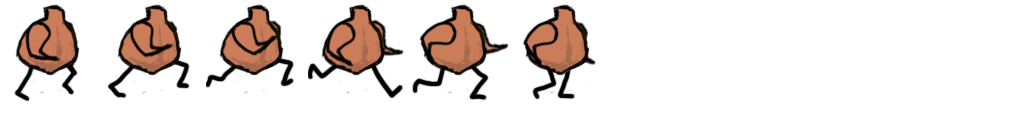
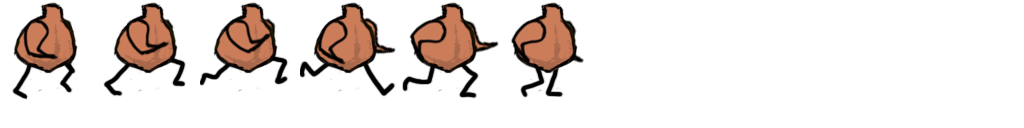
CHICKEN DOING THINGS

Changed region(s): [[0.0, 0.0, 0.5938, 0.7812]]

diff --git a/player.py b/player.py
@@ -28,10 +28,11 @@ class Player(pygame.sprite.Sprite):
 		self.lastShot = 0
 		self.statechanged = 0
 		self.world = world
-		self.strips = [SpriteStripAnim('images/chickenrun.png', (0,0,100,100), 6, 0, True, 5),
-			SpriteStripAnim('images/chickenrun.png', (0,0,100,100), 6, 0, True, 5),
- 			SpriteStripAnim('images/chickenrun.png', (0,0,100,100), 6, 0, True, 5),
- 			SpriteStripAnim('images/chickenrun.png', (0,0,100,100), 6, 0, True, 5)
+		self.strips = [SpriteStripAnim('images/chickenidle.png', (0,0,100,100), 4, (16, 16, 16), True, 5),
+			SpriteStripAnim('images/chickenrunL.png', (0,0,100,100), 6, (16, 16, 16), True, 5),
+ 			SpriteStripAnim('images/chickenrun2.png', (0,0,100,100), 6, (16, 16, 16), True, 5),
+ 			SpriteStripAnim('images/chickenrun2.png', (0,0,100,100), 6, (16, 16, 16), True, 5),
+ 			SpriteStripAnim('images/chickenrun2.png', (0,0,100,100), 6, (16, 16, 16), True, 5)
 		]
 		#http://stackoverflow.com/questions/36932/whats-the-best-way-to-implement-an-enum-in-python
 		self.enumState = self.enum(STAND=0, RUNLEFT=1, RUNRIGHT=2, JUMP=3)
@@ -102,10 +103,9 @@ class Player(pygame.sprite.Sprite):
 			return None
 
 	def updateState(self, state):
-		self.enumsSate = state
 		if(self.state != state):
 			self.stateChanged = 1
-
+		self.state = state
 
 	def updateSpriteSheet(self):
 		n = (int)(self.state)

diff --git a/enemy.py b/enemy.py
@@ -53,13 +53,7 @@ class Enemy(pygame.sprite.Sprite):
 
 		elif keys[pygame.K_d]:
                         
-                        self.stateChange = 1
-                        imgPath = os.path.dirname(os.path.dirname( os.path.realpath( __file__ ) ) ) + "/osgcc/images/chickenrun.png"
-                        strips = [
-                            SpriteStripAnim(imgPath, (0,0,100,100), 6, 0, True, frames = 15)
-                        ]
-                        n = 0
-                        strips[n].iter()
+
                         
 			newDir[0] = 1
 			self.state = self.enumState.RUNRIGHT	
